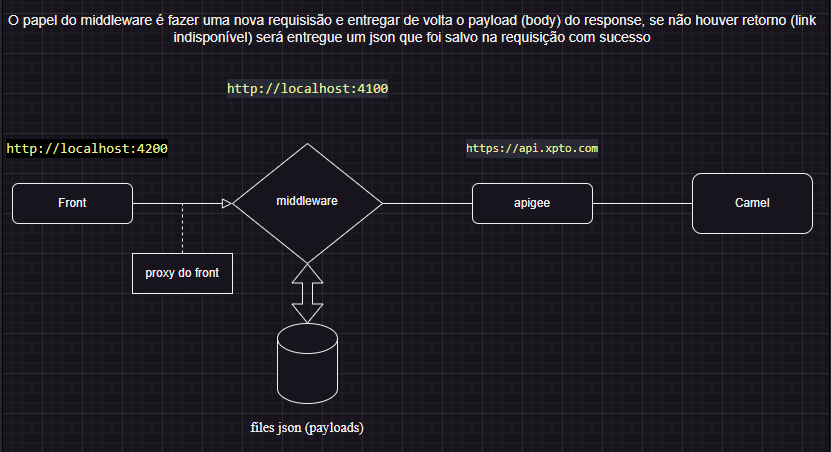
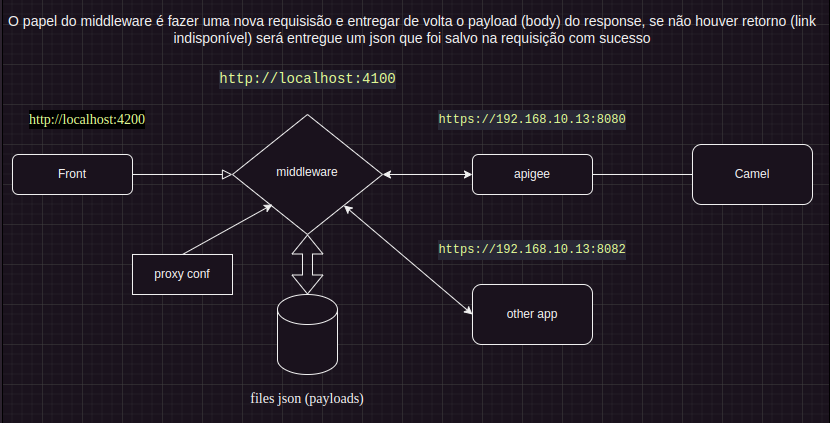
feat: add proxy service

diff --git a/src/serve.js b/src/serve.js
@@ -3,6 +3,7 @@ import cors from "cors";
 import fetch from 'node-fetch';
 import dotenv from 'dotenv';
 import { handleRequest, saveFiles } from './file.service';
+import { getBaseUrl } from './proxy.service';
 
 dotenv.config();
 const app = express();
@@ -33,7 +34,7 @@ app.use(async (req, res) => {
         if (hasBody(req.body)) {
             requestInit['body'] = JSON.stringify(req.body);
         }
-        const responseFetch = await fetch(getUrl(req.url), requestInit);
+        const responseFetch = await fetch(getBaseUrl(req.url), requestInit);
         const text = await responseFetch.text();
         if (text.includes('{')) {
             const payload = JSON.parse(text);

diff --git a/src/proxy.service.js b/src/proxy.service.js
@@ -1,0 +1,19 @@
+import { promises as fs } from 'fs';
+
+let proxy;
+
+(async () => {
+    proxy = JSON.parse(await fs.readFile('./proxy.conf.json'));
+})();
+
+const getTarget = (choice) => {
+    return proxy[choice].target;
+}
+
+const getBaseUrl = (url = '') => {
+    return getTarget('/'.concat(url.split('/')[1])).concat(url);
+}
+
+export {
+    getBaseUrl
+}

diff --git a/src/file.service.js b/src/file.service.js
@@ -11,7 +11,7 @@ const getFiles = async (name) => {
 }
 
 const getPathname = (text = '') => {
-    return text.split('/')[1].split('?')[0].toLowerCase();
+    return text.split('/')[2].split('?')[0].toLowerCase();
 }
 
 const getFilename = (request) => {

diff --git a/README.md b/README.md
@@ -4,6 +4,7 @@
 >
 > Se houver uma falha no request ou response será entregue um payload (json) correspondente ao path
 >
+> Está aplicação irá compor uma URL com base na primeira parte do endpoint, usando como base um arquivo de configuração (json).
 
 ![Arquitetura de funcionamento](./images/architecture.png)
 
